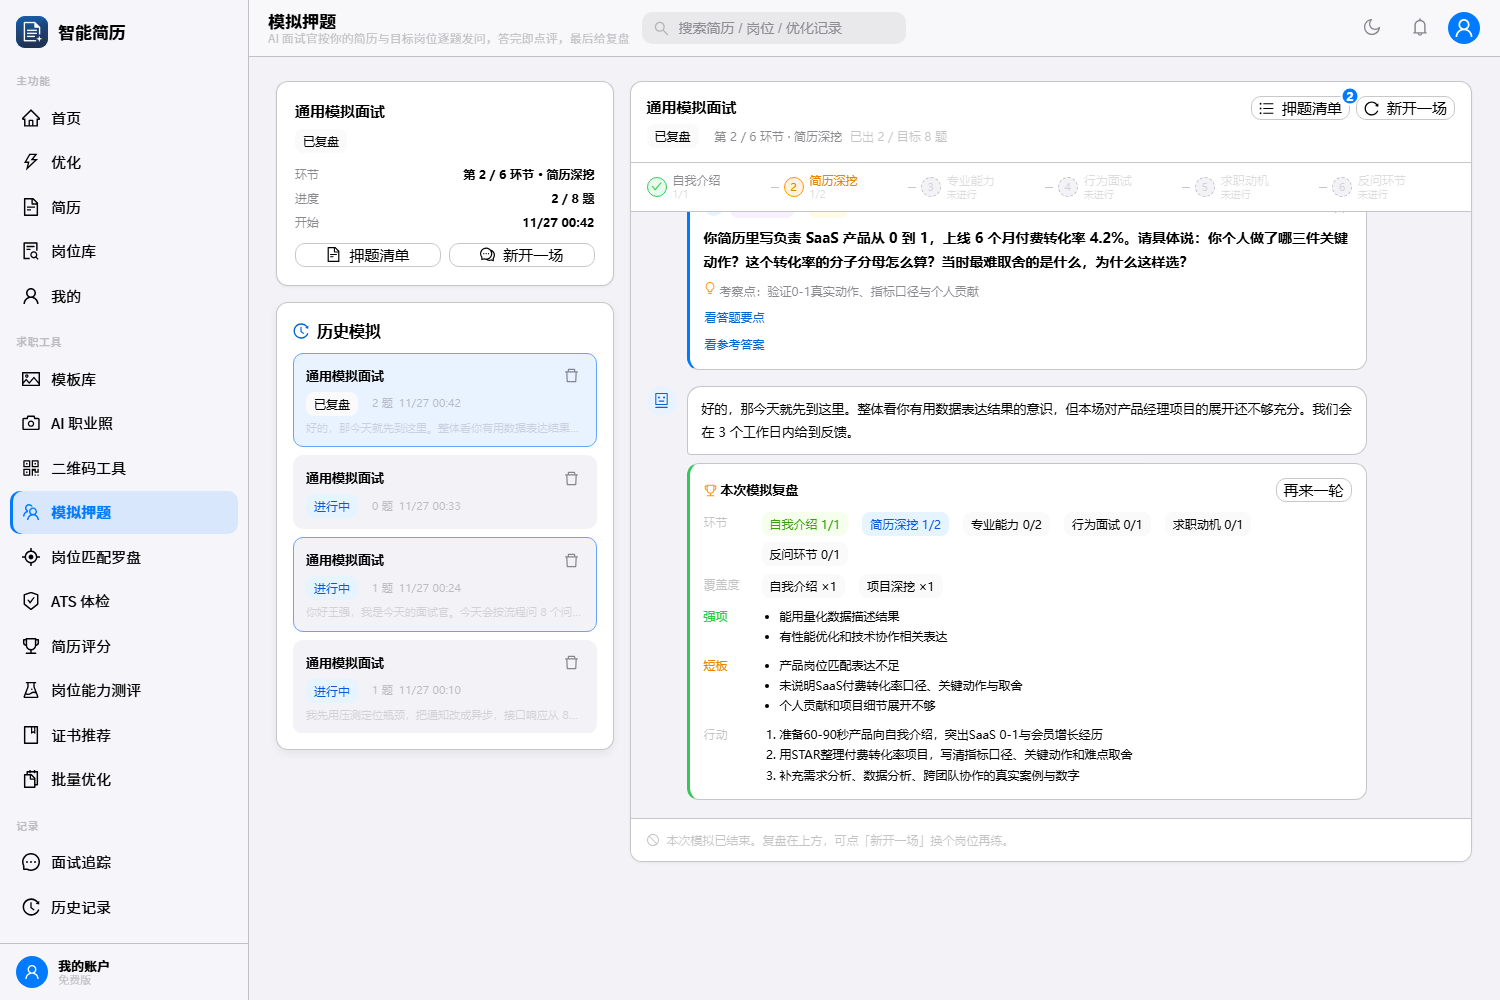
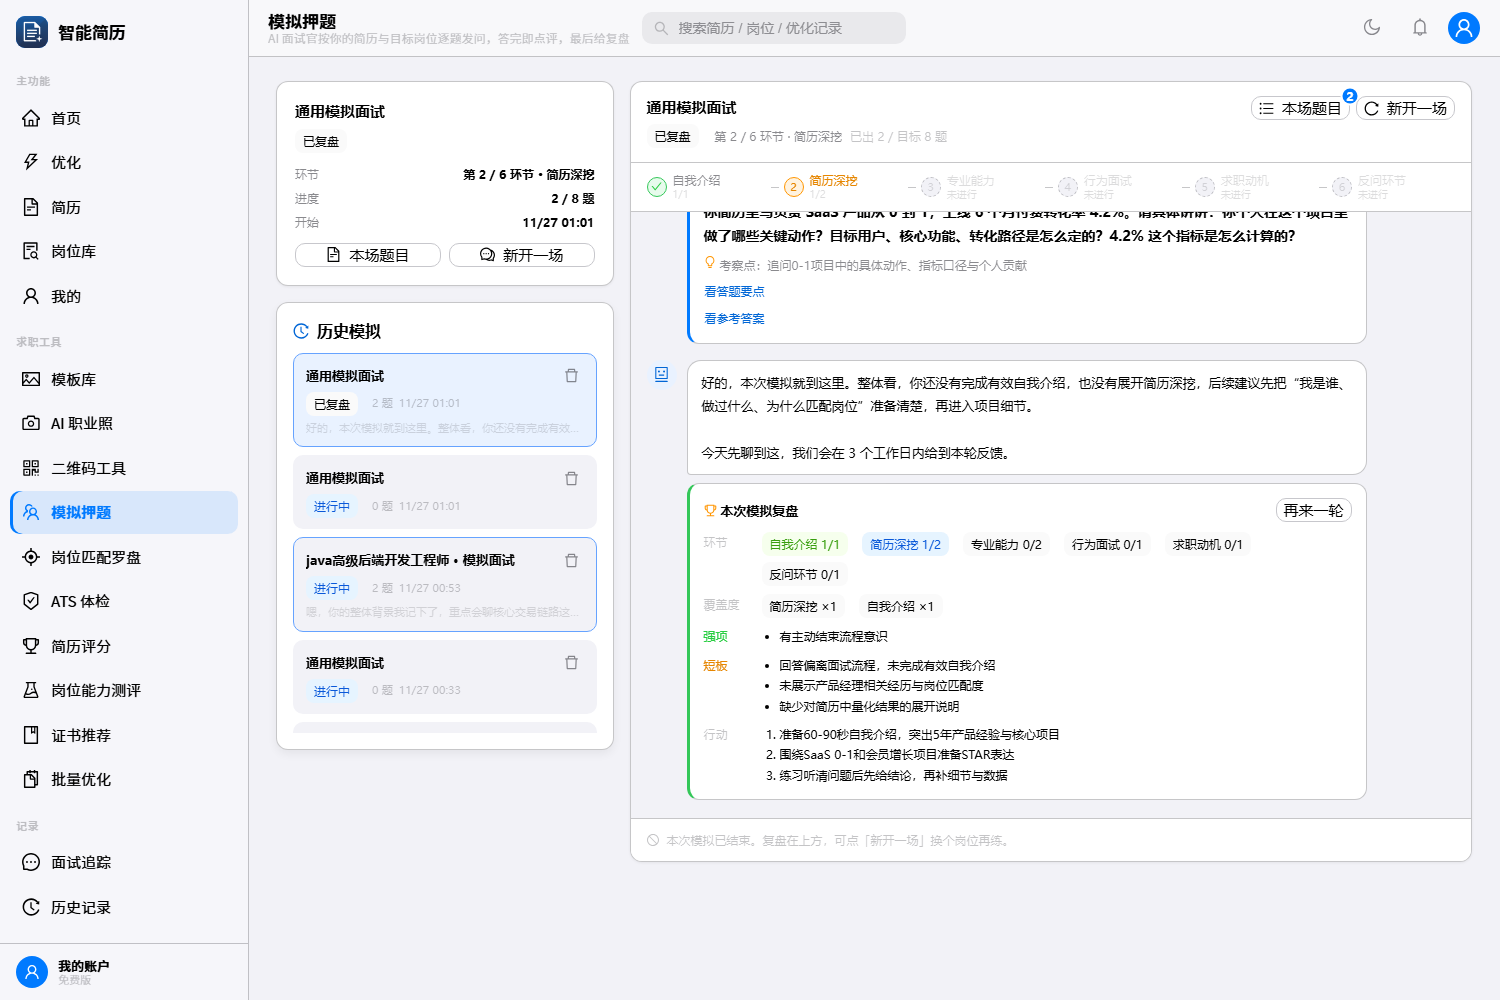
fix(interview): 对话式会话的题目入口改为「本场题目」
「押题清单」是预测题库的说法，与对话式模拟面试的语义不符：
对话里列出来的都是已经问过的题。

- 按钮与抽屉标题按会话类型区分：chat 显示「本场题目」，
  旧版一次性快速押题仍显示「押题题单」
- 抽屉空态文案同步区分
- E2E 增加措辞断言：对话入口与抽屉标题均为「本场题目」，
  界面不再出现「押题清单」；旧版标题断言为「押题题单」

diff --git a/frontend/src/app/interview/components/QuestionsDrawer.tsx b/frontend/src/app/interview/components/QuestionsDrawer.tsx
@@ -1,6 +1,10 @@
 'use client'
 
-/** 押题清单抽屉：按考察维度分组，可收藏、记笔记、看要点。 */
+/** 题目抽屉：按考察维度分组，可收藏、记笔记、看要点。
+ *
+ * 标题按会话类型区分——对话式是「本场题目」（真的已经问过的题），
+ * 一次性快速押题才是「押题题单」（还没问、只是预测）。
+ */
 import React, { useEffect, useState } from 'react'
 import { Button, Drawer, Empty, Input, Tag, message } from 'antd'
 import { BulbOutlined, SaveOutlined, StarFilled, StarOutlined } from '@ant-design/icons'
@@ -51,29 +55,32 @@ function NoteEditor({ item, onSaved }: { item: InterviewQuestion; onSaved: (note
 export default function QuestionsDrawer({
   open,
   questions,
+  mode,
   onClose,
   onBookmark,
   onNoteSaved,
 }: {
   open: boolean
   questions: InterviewQuestion[]
+  mode?: 'chat' | 'quick'
   onClose: () => void
   onBookmark: (q: InterviewQuestion) => void
   onNoteSaved: (id: string, note: string) => void
 }) {
   const groups = groupQuestionsByCategory(questions)
   const [expanded, setExpanded] = useState<string | null>(null)
+  const quick = mode === 'quick'
 
   return (
     <Drawer
-      title={`押题清单（${questions.length} 题）`}
+      title={`${quick ? '押题题单' : '本场题目'}（${questions.length} 题）`}
       open={open}
       onClose={onClose}
       width={440}
       data-testid="mock-drawer"
     >
       {!questions.length ? (
-        <Empty image={Empty.PRESENTED_IMAGE_SIMPLE} description="还没有出题" />
+        <Empty image={Empty.PRESENTED_IMAGE_SIMPLE} description={quick ? '还没有生成题目' : '这一场还没问到题'} />
       ) : (
         groups.map((group) => (
           <div key={group.category} className="mock-drawer-group">

diff --git a/frontend/src/app/interview/page.tsx b/frontend/src/app/interview/page.tsx
@@ -208,7 +208,7 @@ export default function MockInterviewPage() {
                 </div>
                 <div style={{ display: 'flex', gap: 8, marginTop: 12 }}>
                   <Button block size="small" icon={<FileTextOutlined />} onClick={() => setDrawerOpen(true)}>
-                    押题清单
+                    {current.mode === 'quick' ? '押题题单' : '本场题目'}
                   </Button>
                   <Button block size="small" icon={<CommentOutlined />} onClick={reset}>
                     新开一场
@@ -269,6 +269,7 @@ export default function MockInterviewPage() {
         <QuestionsDrawer
           open={drawerOpen}
           questions={current?.questions || []}
+          mode={current?.mode}
           onClose={() => setDrawerOpen(false)}
           onBookmark={handleBookmark}
           onNoteSaved={handleNoteSaved}

diff --git a/frontend/src/app/globals.css b/frontend/src/app/globals.css
@@ -3824,7 +3824,7 @@ body {
 .mock-intro-steps em { font-style: normal; font-size: 12px; color: var(--text-tertiary); line-height: 1.6; }
 .mock-intro-foot { margin-top: 26px; font-size: 11px; color: var(--text-quaternary); }
 
-/* 押题清单抽屉 */
+/* 题目抽屉（对话式=本场题目 / 快速押题=押题题单） */
 .mock-drawer-group { margin-bottom: 18px; }
 .mock-drawer-group-title { font-size: 12px; font-weight: 600; color: var(--text-tertiary); margin-bottom: 8px; }
 .mock-drawer-item {

diff --git a/frontend/src/app/interview/components/ChatStream.tsx b/frontend/src/app/interview/components/ChatStream.tsx
@@ -80,7 +80,7 @@ export default function ChatStream({
         <div className="mock-chat-tools">
           <Badge count={session.questions?.length || 0} size="small" color="var(--primary-500)">
             <Button size="small" icon={<UnorderedListOutlined />} onClick={onOpenDrawer} data-testid="mock-open-drawer">
-              押题清单
+              {readOnly ? '押题题单' : '本场题目'}
             </Button>
           </Badge>
           {!readOnly && !finished && (

diff --git a/scripts/verify_mock_interview.py b/scripts/verify_mock_interview.py
@@ -2,7 +2,7 @@
 
 覆盖：
   1. 页面骨架：标题/配置面板/空态引导/历史列表
-  2. 旧版「快速押题」会话：只读回放、题目卡完整换行、押题清单抽屉
+  2. 旧版「快速押题」会话：只读回放、题目卡完整换行、押题题单抽屉
   3. 新会话全链路：开场 → 出题 → 作答 → 点评 → 结束复盘（真实 LLM，可用 --no-live 跳过）
   4. 刷新恢复：消息流水从后端重放
   5. 删除会话 + 控制台无报错/水合错误
@@ -109,11 +109,13 @@ def main() -> int:
                       "; ".join(f"#{o['i']} {o['sw']}>{o['cw']}" for o in clipped[:3]))
                 shot(page, "02-legacy-readonly")
 
-                # 押题清单抽屉
+                # 题目抽屉（旧版快速押题 → 押题题单）
                 page.locator('[data-testid="mock-open-drawer"]').click()
                 drawer = page.locator('[data-testid="mock-drawer"]')
                 drawer.wait_for(timeout=15_000)
-                check("押题清单抽屉打开", drawer.is_visible())
+                check("押题题单抽屉打开", drawer.is_visible())
+                legacy_title = drawer.locator(".ant-drawer-title").inner_text().strip()
+                check("旧版标题为「押题题单」", legacy_title.startswith("押题题单"), legacy_title)
                 check("抽屉内题目条目渲染", page.locator('[data-testid="mock-drawer-item"]').count() >= 1)
                 shot(page, "03-drawer")
                 page.keyboard.press("Escape")
@@ -167,6 +169,20 @@ def main() -> int:
                            if first_q.strip() in bubbles.nth(i).inner_text()]
                     check("正文不与题卡重复题干", len(dup) == 0, f"{len(dup)} 条重复")
                     shot(page, "04-first-question")
+
+                    # 措辞校验：对话式用到的是「本场题目」，不是押题清单
+                    open_drawer = page.locator('[data-testid="mock-open-drawer"]')
+                    check("对话内题目入口叫「本场题目」",
+                          open_drawer.inner_text().strip() == "本场题目",
+                          open_drawer.inner_text().strip())
+                    open_drawer.click()
+                    dlg = page.locator('[data-testid="mock-drawer"]')
+                    dlg.wait_for(timeout=15_000)
+                    dlg_title = dlg.locator(".ant-drawer-title").inner_text().strip()
+                    check("抽屉标题为「本场题目」", dlg_title.startswith("本场题目"), dlg_title)
+                    check("界面不再出现「押题清单」", page.get_by_text("押题清单").count() == 0)
+                    page.keyboard.press("Escape")
+                    page.wait_for_timeout(400)
 
                     # 作答
                     page.locator('[data-testid="mock-input"]').fill("我先用压测定位瓶颈，把通知改成异步，接口响应从 800ms 降到 300ms。")
